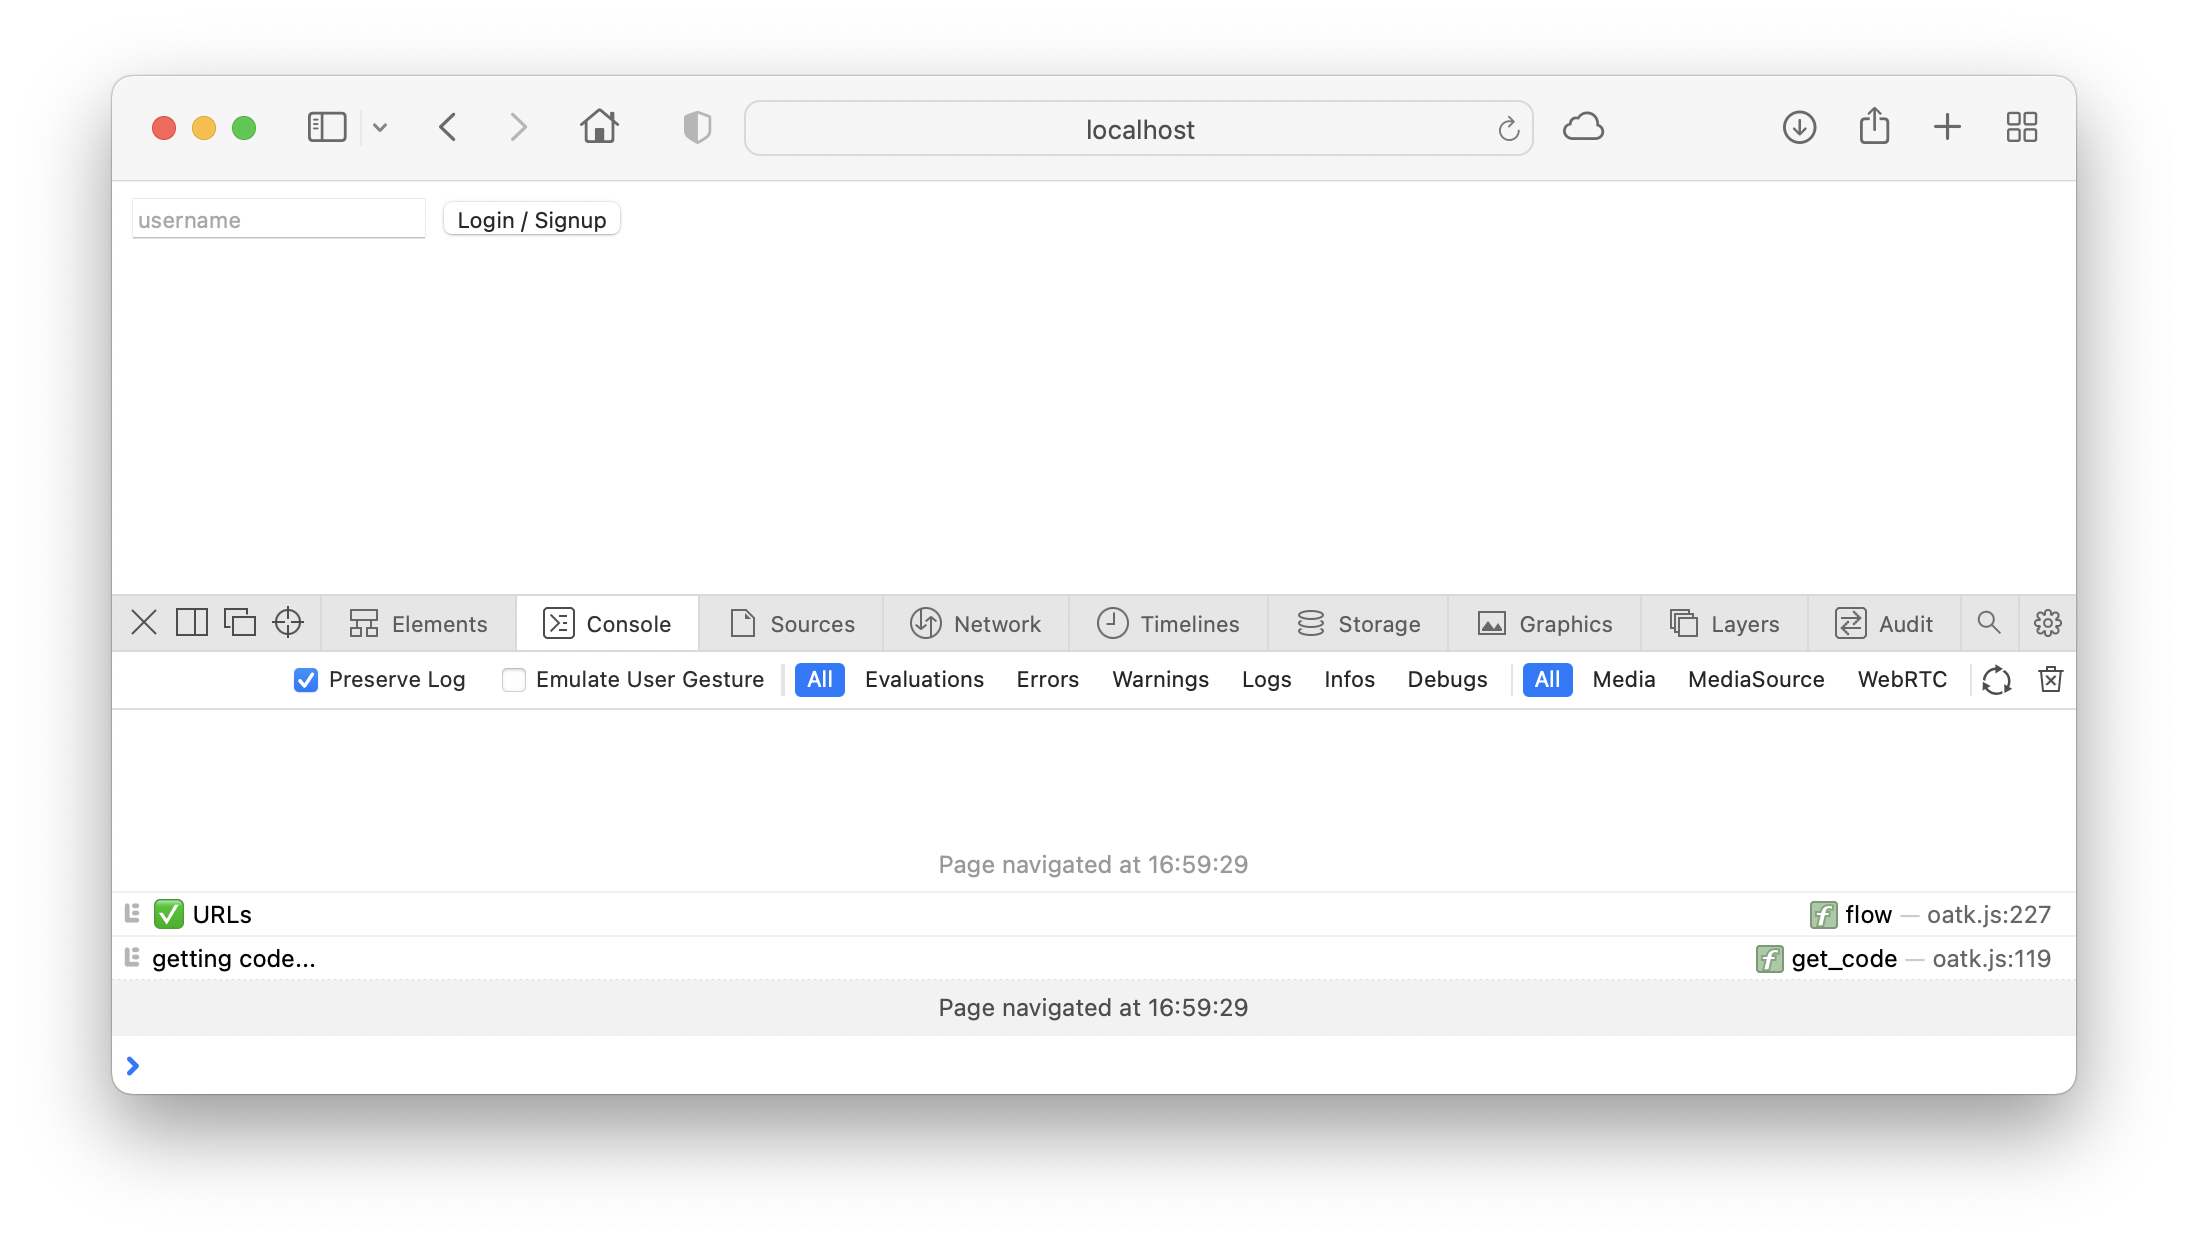
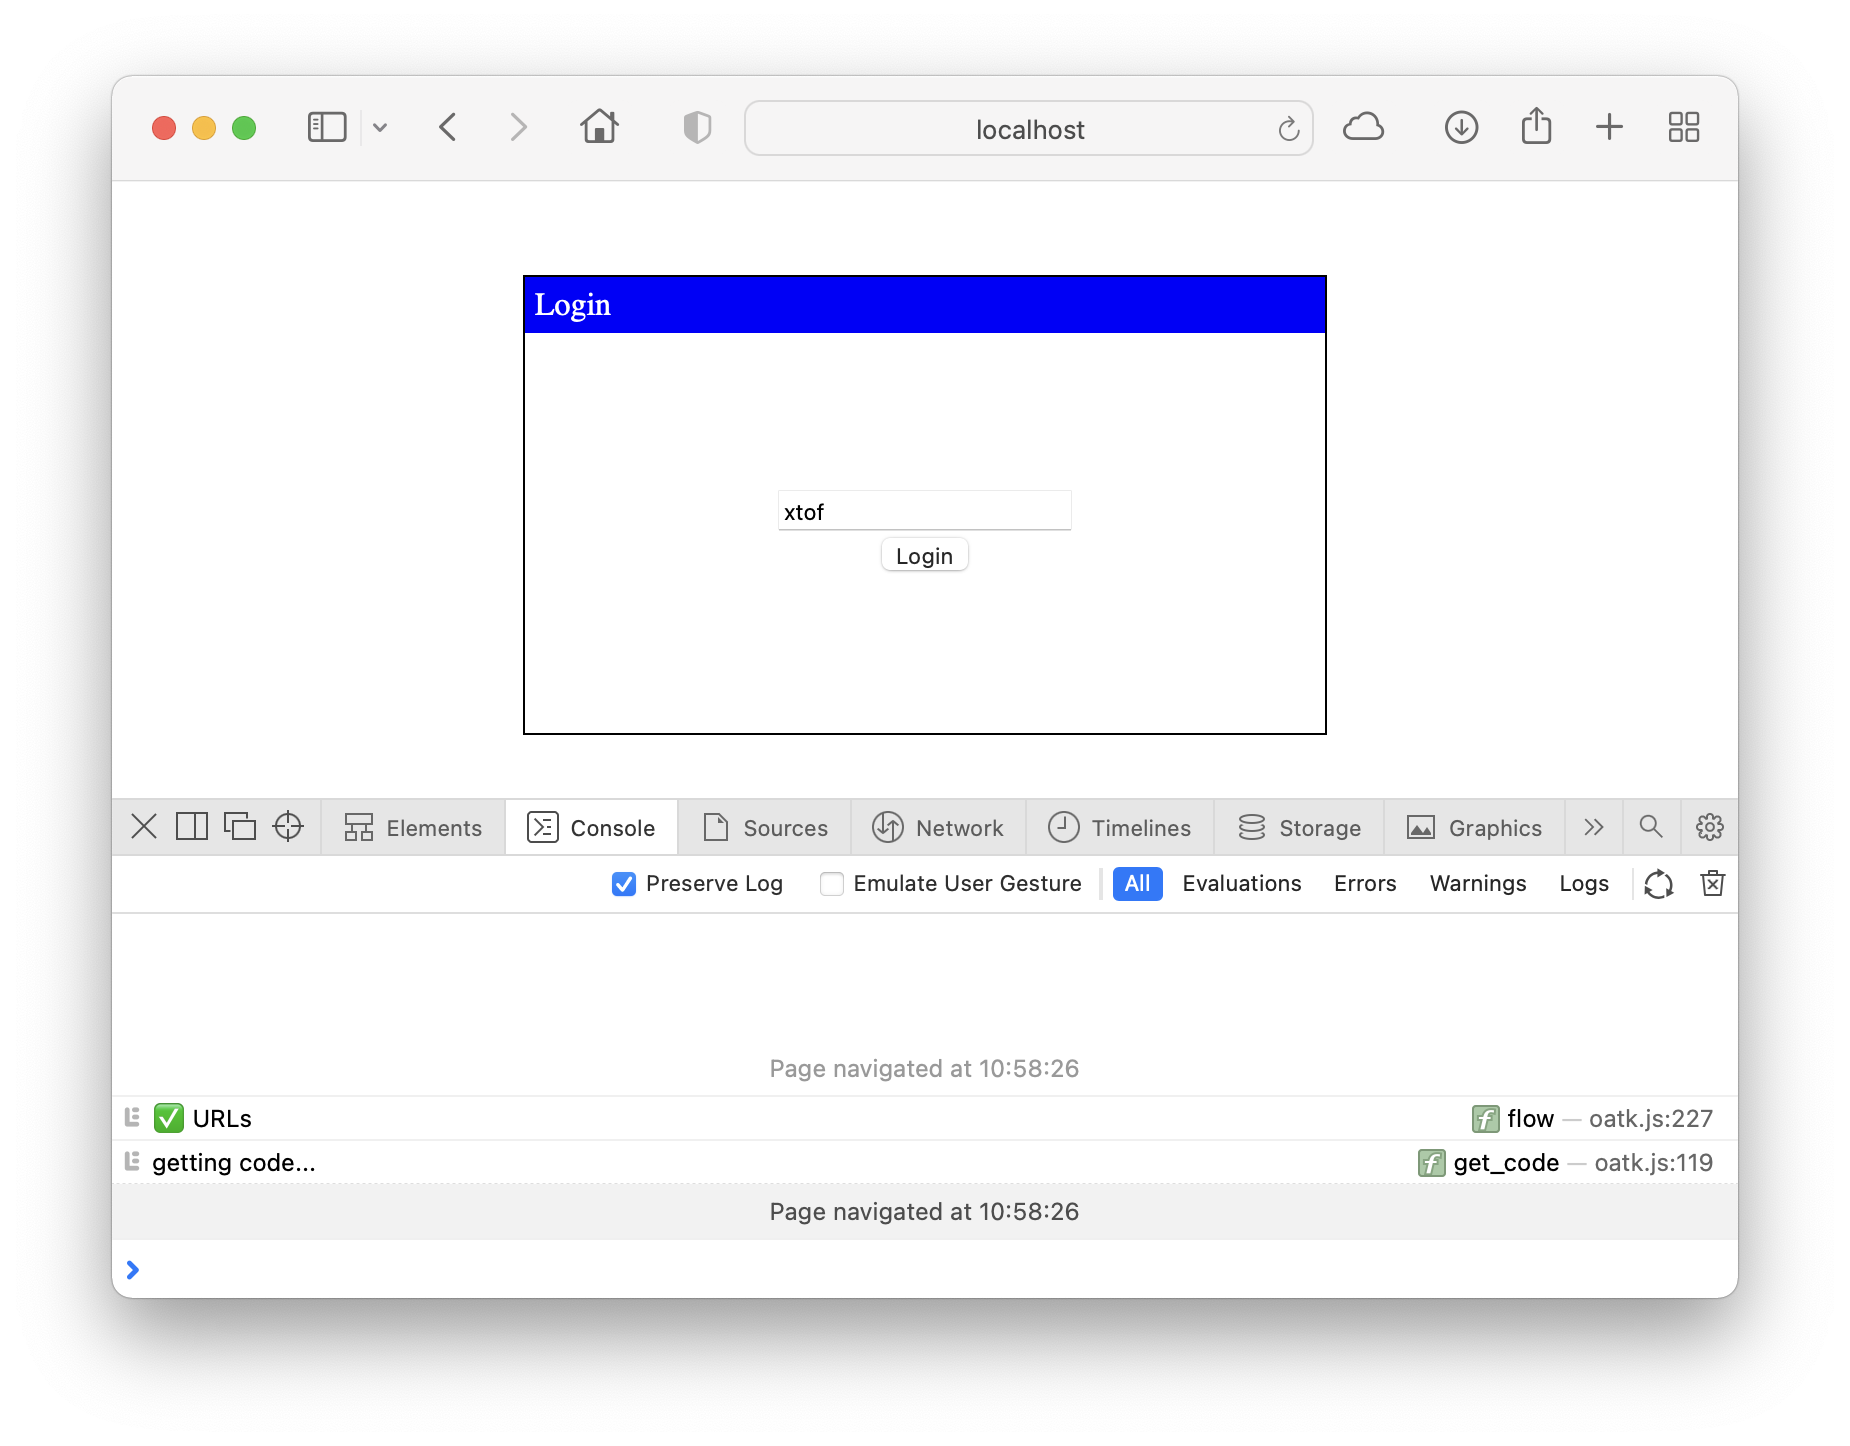
cleaned up login/consent templates a bit

diff --git a/oatk/fake/templates/base.html b/oatk/fake/templates/base.html
@@ -1,0 +1,52 @@
+<!doctype html>
+<html>
+<head>
+<style>
+  /* dialog is centered horizontally and vertically */
+  .container {
+    display: flex;
+    justify-content: center;
+    align-items: center;
+    height: 100vh;
+
+    padding: 0px;
+    margin: 0px;
+  }
+  
+  .container .dialog {
+    width: 400px;
+    border:1px solid black;
+  }
+  
+  .dialog .title {
+    padding: 5px;
+    background-color:blue;
+    color:white;
+  }
+  
+  /* content is centered horizontally and vertically */
+  .dialog .content {
+    display: flex;
+    justify-content: center;
+    align-items: center;
+    min-height: 200px;
+    padding: 0px;
+  }
+  
+  .dialog .content form {
+    display: block;
+    text-align: center;
+  }
+</style>
+</head>
+<body>
+  <div class="container">
+    <div class="dialog">
+
+      <div class="title">{% block title %}{% endblock %}</div>
+      <div class="content">{% block content %}{% endblock %}</div>
+
+    </div>
+  </div>
+</body>
+</html>

diff --git a/oatk/fake/templates/authorize.html b/oatk/fake/templates/authorize.html
@@ -1,11 +1,21 @@
-<p>{{client_name}} is requesting:
-</p>
+{% extends "base.html" %}
+{% block title %}Authorize...{% endblock %}
+{% block content %}
 
-<form action="" method="post">
-  <label>
-    <input type="checkbox" name="confirm">
-    <span>Consent?</span>
-  </label>
-  <br>
-  <button>Submit</button>
-</form>
+<div>
+  <div>
+    Application "{{grant.client.client_name}}" is requesting your consent...<br>
+    Requested scopes: {{ grant.request.scope }}.
+    <br><br>
+  </div>
+
+  <form action="" method="post">
+    <label>
+      <input type="checkbox" name="confirm">
+      <span>Consent?</span>
+    </label>
+    <br>
+    <button>Submit</button>
+  </form>
+</div>
+{% endblock %}

diff --git a/oatk/fake/templates/home.html b/oatk/fake/templates/home.html
@@ -1,5 +1,4 @@
-{% if user %}
-  <style>pre{white-space:wrap}</style>
+<style>pre{white-space:wrap}</style>
 <div>Logged in as <strong>{{user}}</strong></div>
 
 {% for client in clients %}
@@ -12,10 +11,3 @@
 
 <br><a href="/oauth/create-client">Create Client</a>
 | <a href="/oauth/logout">Log out</a>
-
-{% else %}
-<form action="" method="post">
-  <input type="text" name="username" placeholder="username">
-  <button type="submit">Login / Signup</button>
-</form>
-{% endif %}

diff --git a/oatk/fake/templates/login.html b/oatk/fake/templates/login.html
@@ -1,0 +1,8 @@
+{% extends "base.html" %}
+{% block title %}Login{% endblock %}
+{% block content %}
+<form action="?{{ args }}" method="post">
+  <input type="text" name="username" placeholder="username"><br>
+  <button type="submit">Login</button>
+</form>
+{% endblock %}

diff --git a/oatk/fake/routes.py b/oatk/fake/routes.py
@@ -32,15 +32,13 @@ def home():
 
   # GET
   user = current_user()
-  logger.info(user)
   if user:
     clients = list(db["clients"].find({"user_id" : user["_id"]}))
+    for client in clients:
+      client["_id"] = str(client["_id"]) # turn Mongo ObjectID into string
+    return render_template("home.html", user=user, clients=clients)
   else:
-    clients = []
-  for client in clients:
-    client["_id"] = str(client["_id"]) # turn Mongo ObjectID into string
-  return render_template("home.html", user=user, clients=clients)
-
+    return render_template("login.html")
 
 @server.route("/oauth/create-client", methods=["GET", "POST"])
 def create_client():
@@ -116,7 +114,7 @@ def authorize():
     nonce = request.args["nonce"]
     logger.info(f"got client: {client}")
   else:
-    return render_template("login-before-consent.html", args=str(request.query_string.decode()))
+    return render_template("login.html", args=str(request.query_string.decode()))
 
   if "confirm" in request.form:
     logger.info("got confirmation: f{request.form['confirm']}")
@@ -145,7 +143,7 @@ def authorize():
   except Exception as error:
     logger.exception(error)
     return jsonify({"error" : str(error)})
-  return render_template("authorize.html", user=user, grant=grant)
+  return render_template("authorize.html", grant=grant)
 
 @server.route("/oauth/token", methods=["POST"])
 def issue_token():
@@ -219,7 +217,7 @@ def well_known():
 
 @server.route("/oauth/logout")
 def logout():
-  session.pop("id")
+  session.pop("id", None)
   goto = "/"
   return redirect(goto, 302)
 
